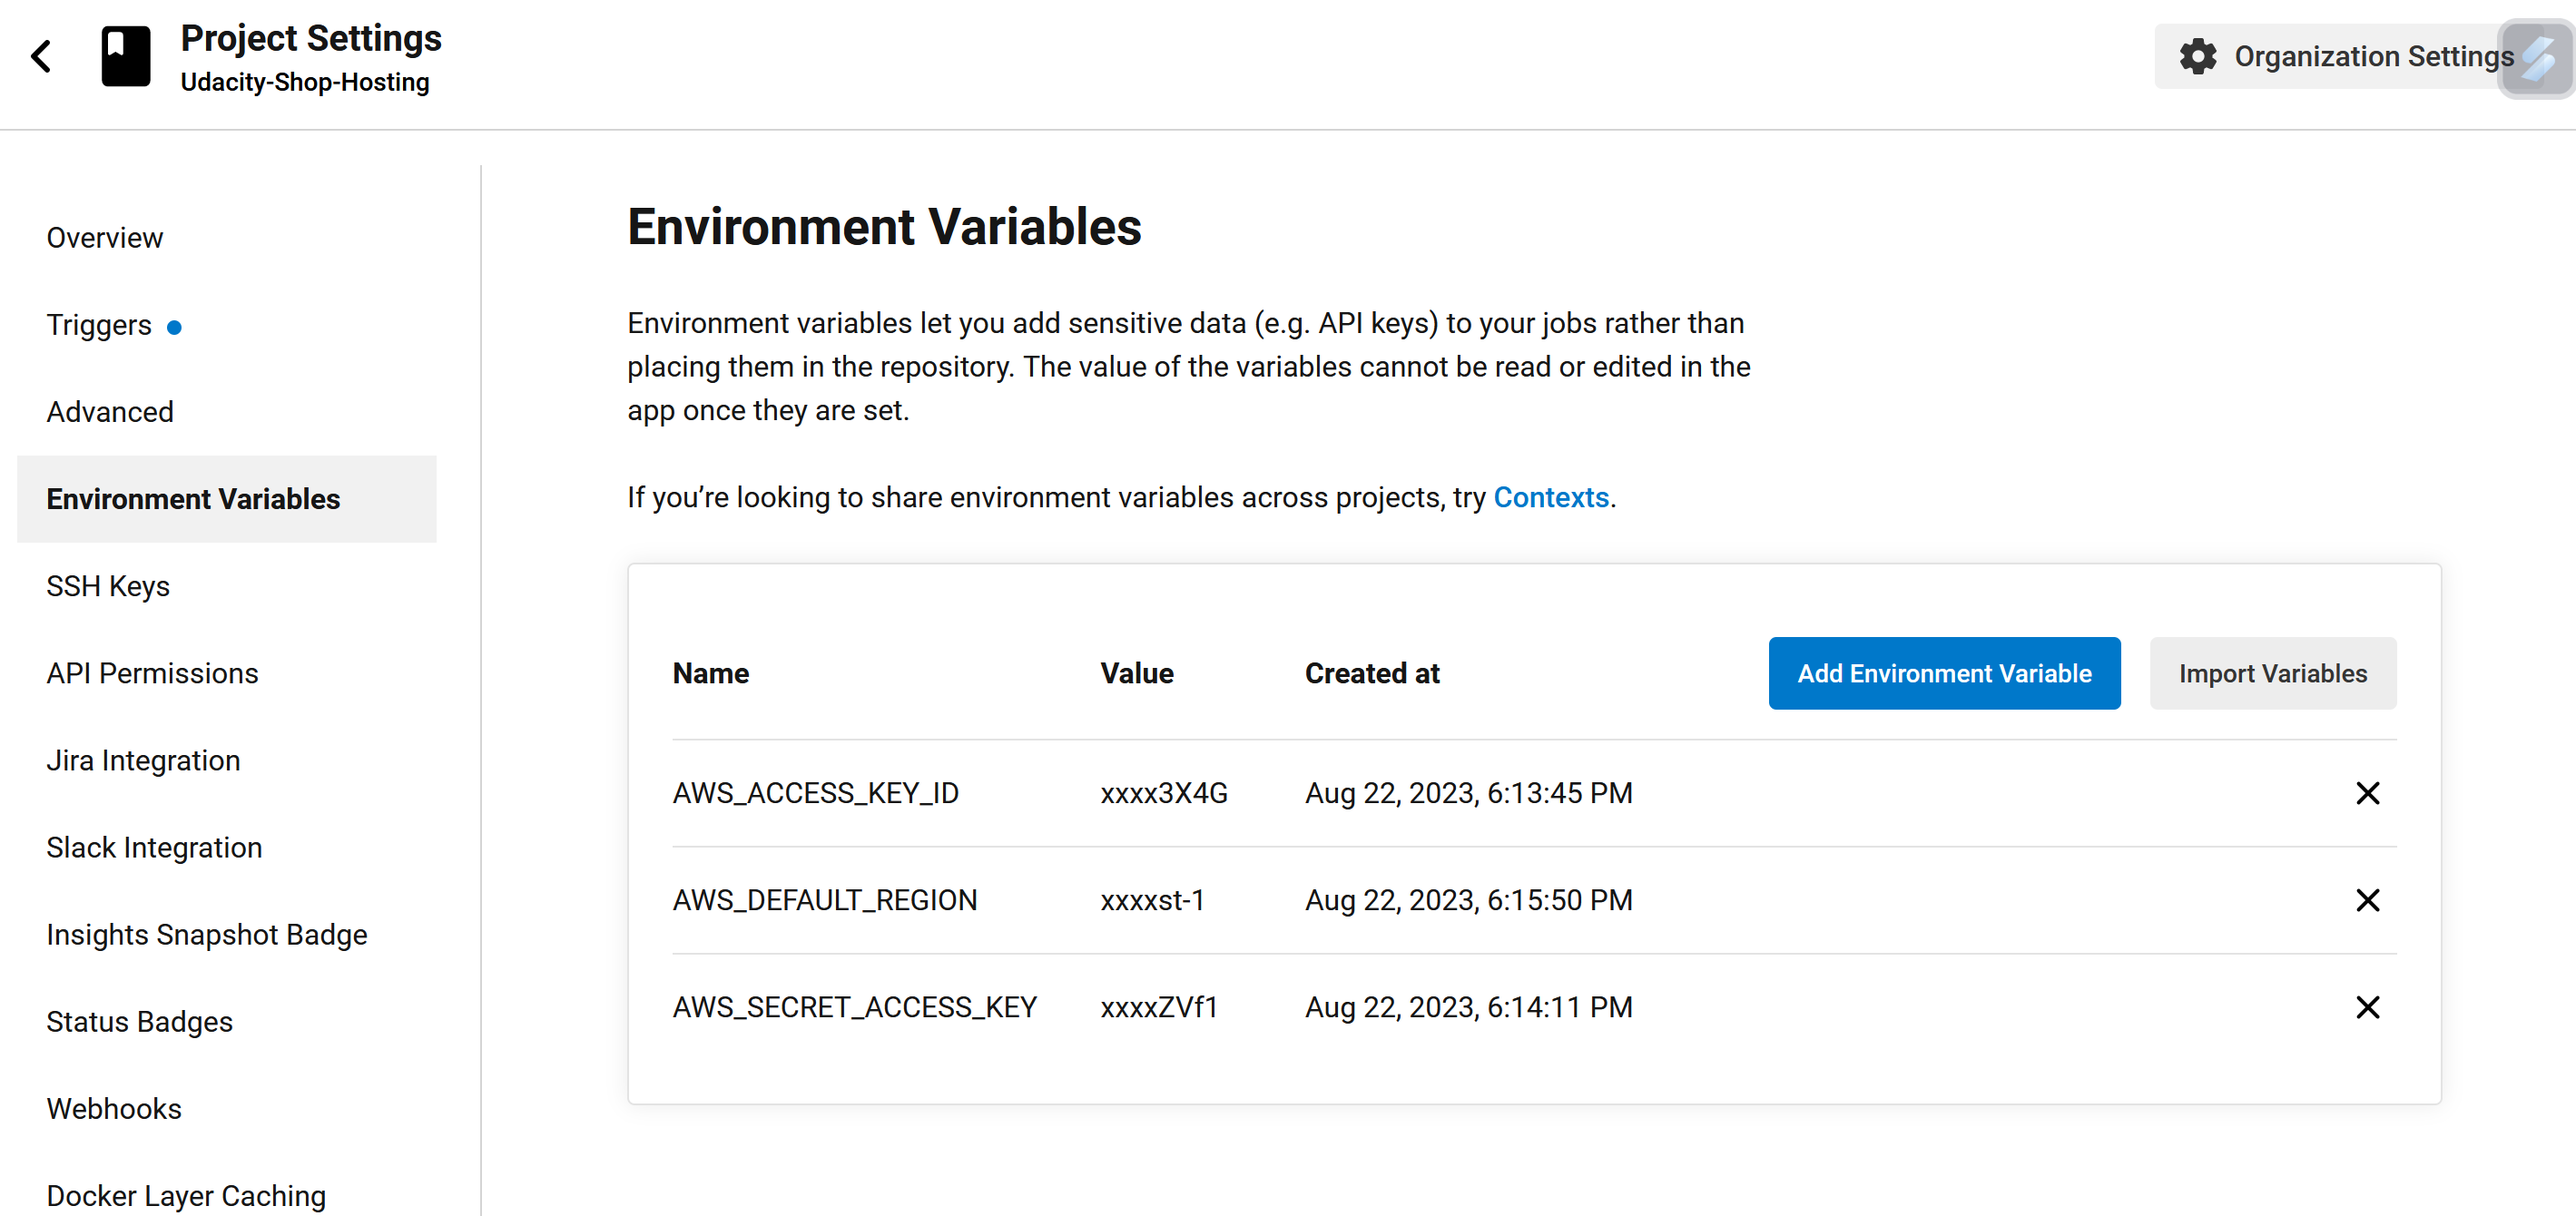
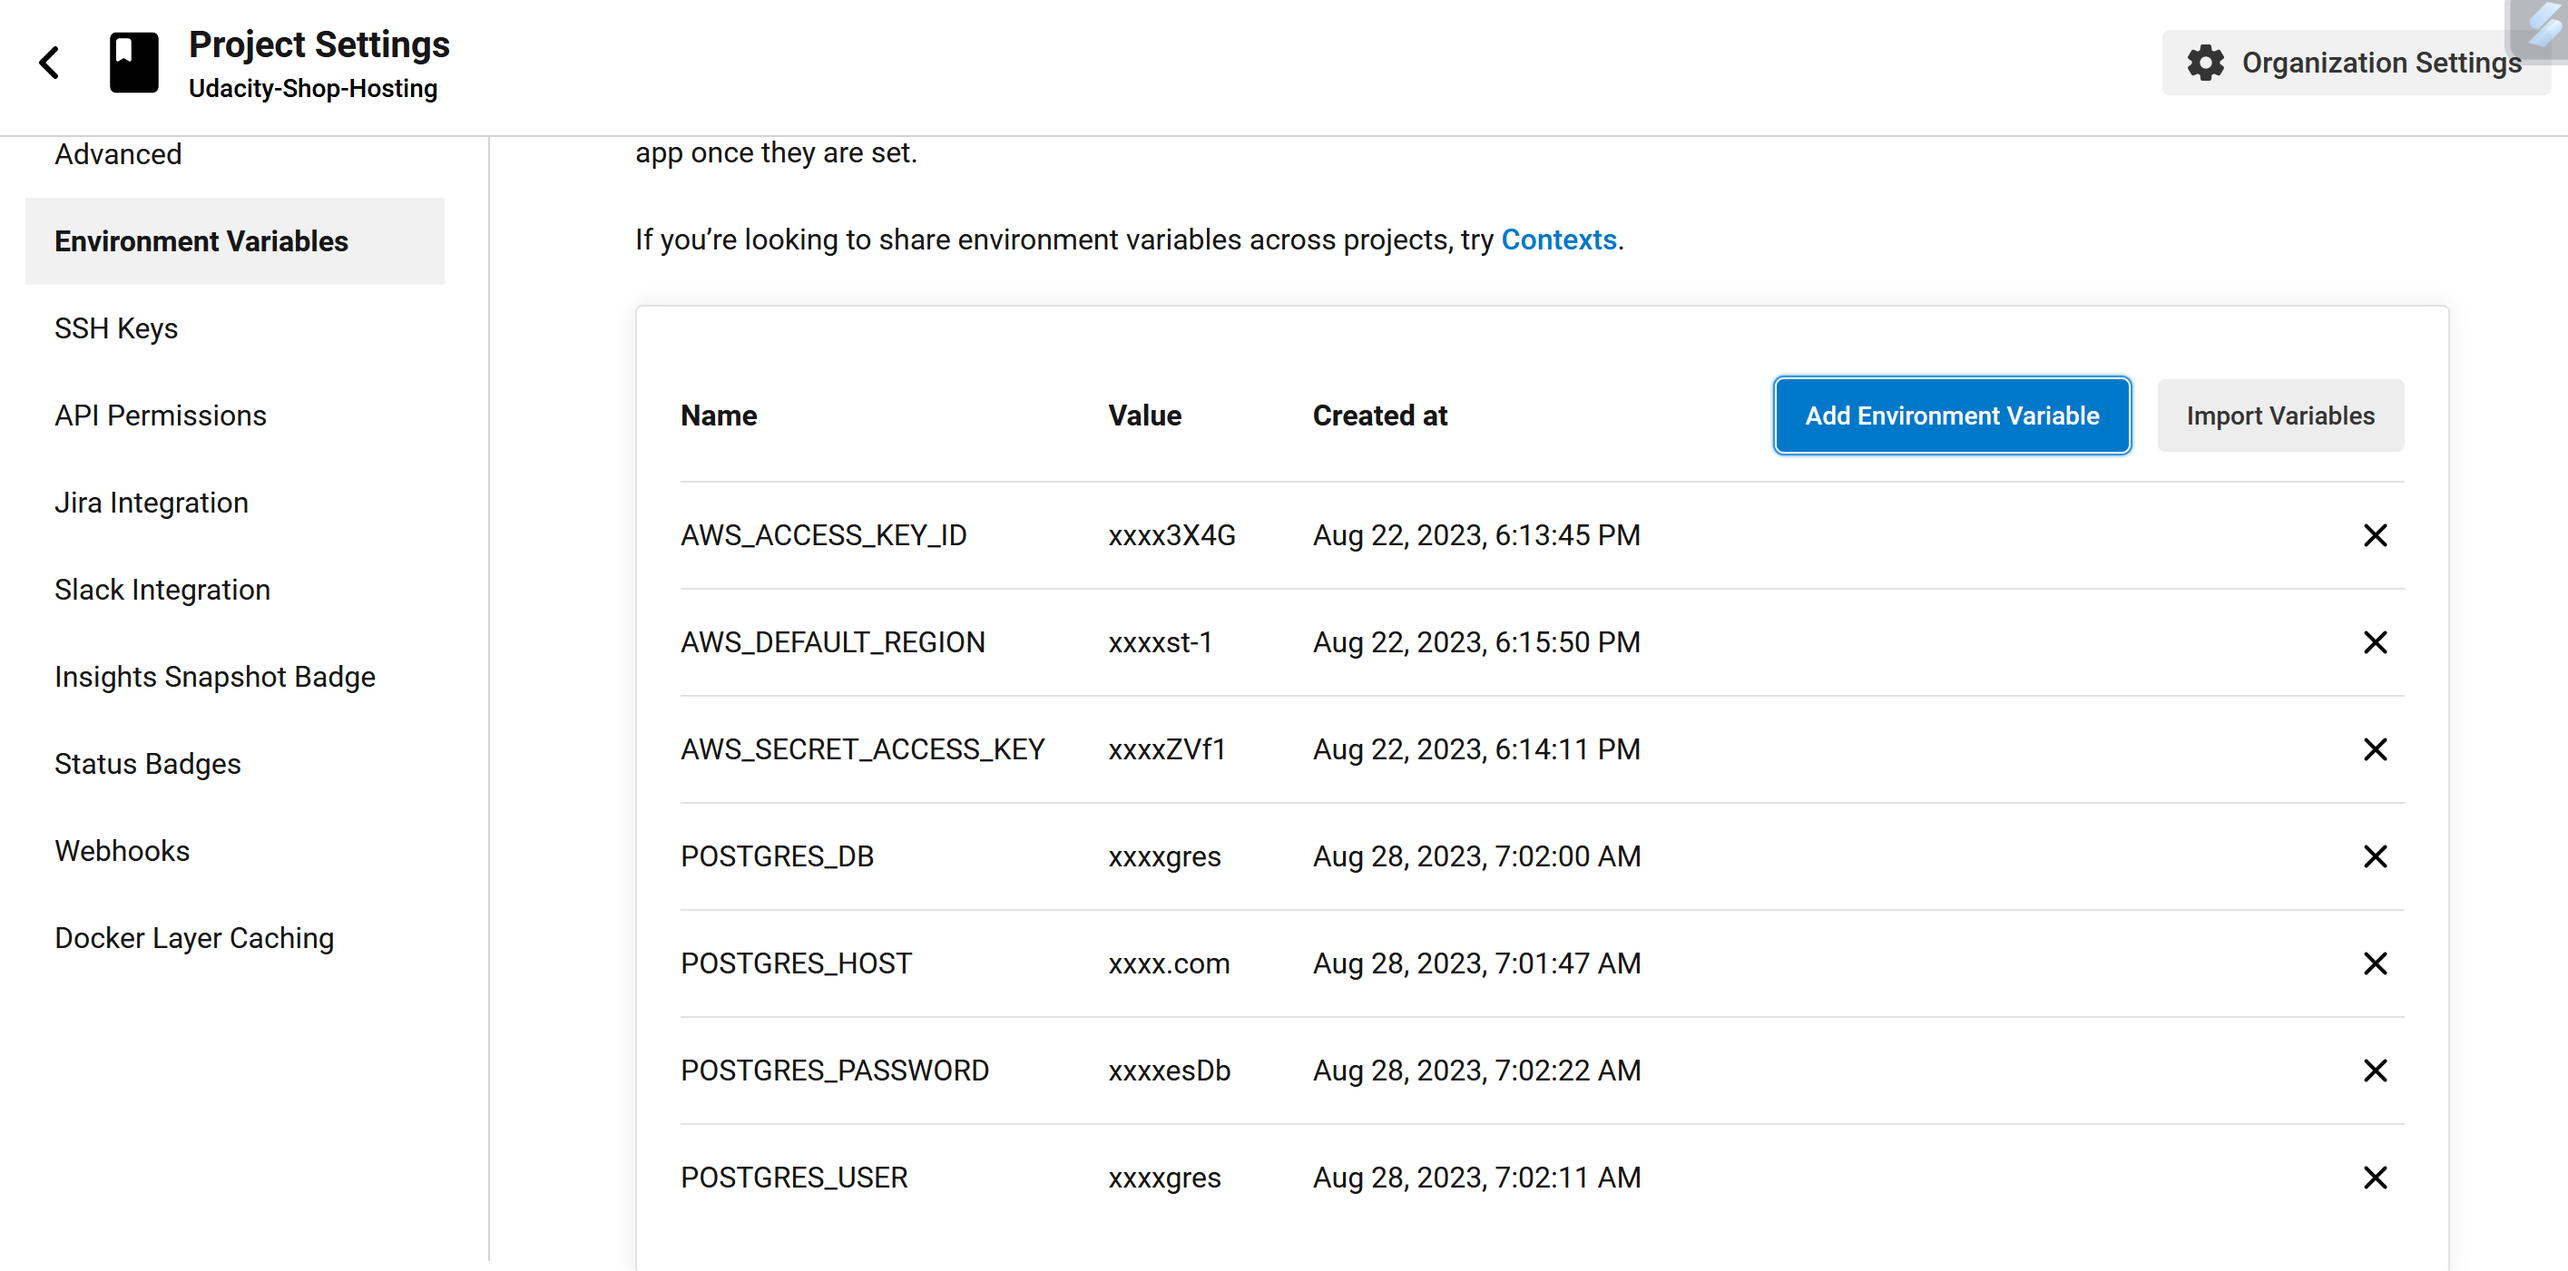
up

diff --git a/Doc/App_dependencies.md b/Doc/App_dependencies.md
@@ -1,0 +1,27 @@
+# App Dependencies
+
+## Backend Dependencies
+
+### Node
+
+- Node 18.16.1 or more recent. 
+    - While older versions can work it is advisable to keep node to latest LTS version
+
+### Package Manager
+
+- npm 9.8.1 or more recent 
+    - Yarn can work but was not tested for this project
+
+### Cloud Services
+
+- AWS CLI v2
+
+- A RDS database running Postgres.
+
+- A S3 bucket for hosting frontend
+
+- A Elastic Beanstalk Environment
+
+### Cloud Services
+
+Make sure all of the above dependencies are installed and configured properly before running or deploying the application.
